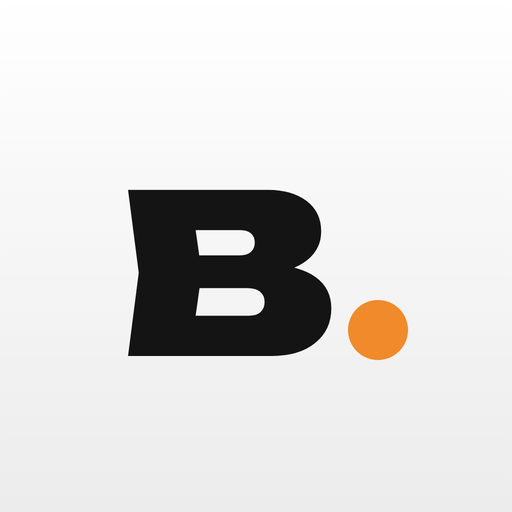
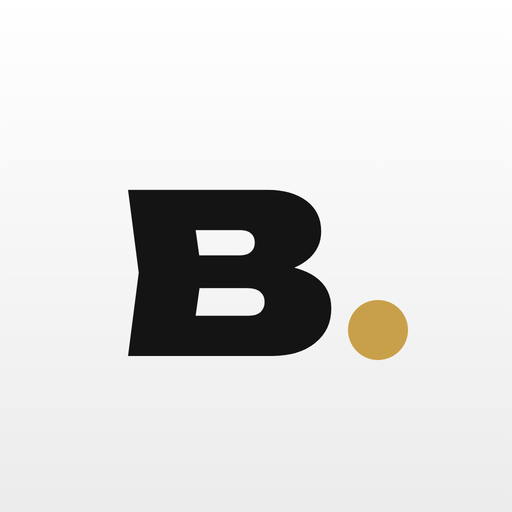
Сила без списък на началния екран; по-малки заглавия; логото „в.“ и в приложението; точката е златна като приложението
Claude-Session: https://claude.ai/code/session_01KZhkn6MuQsKn2gE2vEXr5v

Changed region(s): [[0.6562, 0.5625, 0.8125, 0.7188]]

diff --git a/index.html b/index.html
@@ -8,7 +8,7 @@
 <meta name="mobile-web-app-capable" content="yes">
 <meta name="apple-mobile-web-app-status-bar-style" content="black-translucent">
 <meta name="apple-mobile-web-app-title" content="Тренировка">
-<link rel="apple-touch-icon" href="icon-180.png?v=5">
+<link rel="apple-touch-icon" href="icon-180.png?v=6">
 <link rel="manifest" href="manifest.webmanifest">
 <link rel="preconnect" href="https://fonts.googleapis.com">
 <link rel="preconnect" href="https://fonts.gstatic.com" crossorigin>
@@ -189,17 +189,18 @@
   .pd.cur{background:var(--gold);} .exrow.cur .n{color:var(--gold);}
   .sw.on{background:var(--gold);}
   #home .top{display:flex;justify-content:space-between;align-items:center;margin-bottom:4px}
+  #home .brand{display:flex;align-items:center;gap:10px}#home .logo{width:30px;height:30px;border-radius:8px;display:block}
   #home .date{font-size:14px;color:var(--muted);font-weight:500}
   #home .streak{font-size:16px;font-weight:800;color:var(--ink-2)}
   #home .streak.hot{color:var(--gold)}
   #home h1.hh{margin-bottom:4px!important}
   .sline{font-size:14px;color:var(--muted);margin:0 0 16px;font-weight:500}
   .sline.warn{color:var(--gold);font-weight:600}
-  #home h1.hh{font-size:34px;font-weight:800;letter-spacing:-.01em;margin-bottom:18px}
+  #home h1.hh{font-size:28px;font-weight:800;letter-spacing:-.01em;margin-bottom:18px}
   .hero{background:var(--card);border-radius:24px;padding:20px}
   .hero .k{font-size:12px;font-weight:700;letter-spacing:.14em;text-transform:uppercase;color:var(--muted)}
-  .hero .t{font-size:36px;font-weight:800;margin:3px 0 2px;letter-spacing:-.01em}
-  .hero .m{font-size:15px;color:var(--ink-2);font-weight:500}
+  .hero .t{font-size:29px;font-weight:800;margin:3px 0 2px;letter-spacing:-.01em}
+  .hero .m{font-size:14px;color:var(--ink-2);font-weight:500}
   .chips{display:flex;gap:6px;flex-wrap:wrap;margin:14px 0 18px}
   .chip{font-size:12.5px;font-weight:600;background:var(--card-2);color:var(--ink-2);padding:6px 10px;border-radius:20px}
   .tg{display:flex;justify-content:space-between;align-items:center;gap:12px;padding:11px 0;border-bottom:1px solid var(--line)}
@@ -282,7 +283,7 @@
 </div></div>
 <div class="wrap">
   <div id="home">
-    <div class="top"><span class="date" id="h-date"></span><span class="streak" id="streak"></span></div>
+    <div class="top"><span class="brand"><img class="logo" src="icon-180.png?v=6" alt=""><span class="date" id="h-date"></span></span><span class="streak" id="streak"></span></div>
     <h1 class="hh">Днес</h1>
     <div id="streak-line" class="sline"></div>
     <div class="hero" id="h-hero"></div>
@@ -1548,15 +1549,7 @@ function renderHome(){
     h+='<div class="m">12 упражнения · около '+fi.min+' минути</div><div style="height:18px"></div>'+
       '<button class="b-main full" data-go="func">Започни</button>';
   }else if(type==='strength'){
-    const plan=window.__strPlan||[];
-    const ses=log.filter(x=>x.type==='strength'&&x.detail&&x.detail.ex);
-    h+='<div class="m">'+(WINTER?'загрей вкъщи · навън около 12 минути':'уредите в двора · около 35 минути')+'</div><div style="margin:10px 0 16px">';
-    plan.forEach(e=>{const past=ses.map(x=>x.detail.ex[e.n]).filter(Boolean);
-      const last=past[0],ready=past.length>=2&&past[0].h>=past[0].s&&past[1].h>=past[1].s;
-      const sub=last?('миналия път '+last.h+'/'+last.s+' серии на целта'):'първи път';
-      const r=ready?'<div class="r up">по-трудно<small>3 сек спускане</small></div>':'<div class="r">'+e.s+' серии<small>'+e.t.split(' · ')[0]+'</small></div>';
-      h+='<div class="tg"><div><div class="n">'+e.n+'</div><div class="s">'+sub+'</div></div>'+r+'</div>';});
-    h+='</div><button class="b-main full" data-go="strength">Започни със загрявката</button>';
+    h+='<div class="m">'+(WINTER?'около 12 минути · първо загрявка вкъщи':'около 35 минути')+'</div><div style="height:18px"></div><button class="b-main full" data-go="strength">Започни</button>';
   }else if(type==='rest'){
     h+='<div class="m">Мускулите растат, докато почиват. По желание — разтягане в леглото вечерта.</div><div style="height:18px"></div>'+
       '<button class="b-alt full" data-go="stretch">Разтягане · '+(window.__stretchMin||9)+' мин</button>';
@@ -1604,7 +1597,7 @@ initCloud();
 // ---- updates arrive by themselves ----
 // The home-screen app can keep an old copy for a while. When the app is opened or comes back to the front,
 // it quietly asks the site for the newest version and reloads — but never in the middle of a workout.
-const BUILD='20261006164821';
+const BUILD='20261006170349';
 function busy(){return document.body.classList.contains('in-work')||['c-start','r-start','x-start','f-start'].some(id=>{const b=document.getElementById(id);return b&&/Пауза|Продължи/.test(b.textContent);})||(load('wt_str_live',{}).date===localISO());}
 async function checkUpdate(){
   try{if(busy()||!navigator.onLine)return;
